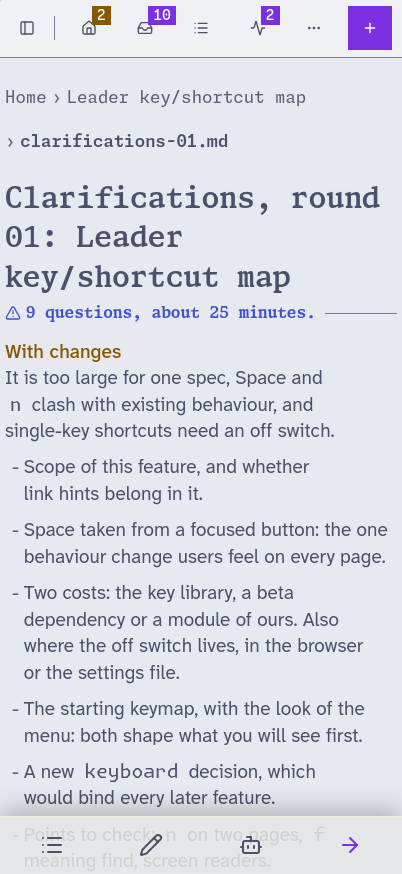
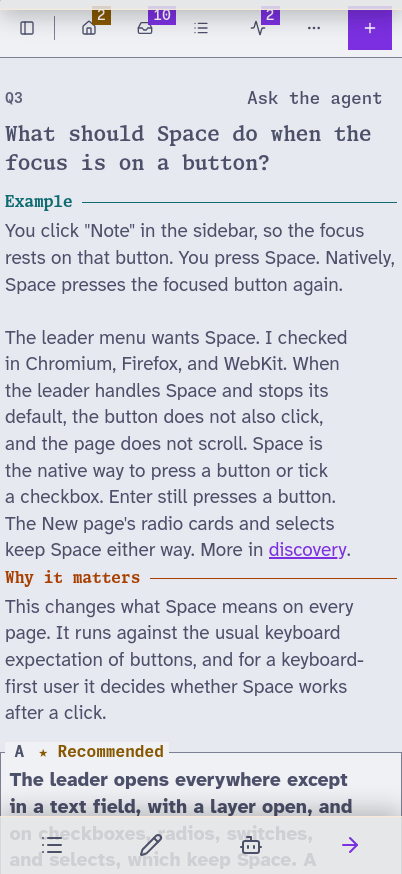
chore: better screenshots

diff --git a/packages/web/scripts/readme-screenshots.ts b/packages/web/scripts/readme-screenshots.ts
@@ -66,13 +66,19 @@ async function main() {
     await working;
     const each = shooter(shots, out, []);
     await each("home", ({ page }) => open(page, "/", "Overview"));
-    await each("questions", ({ page }) =>
-      open(
+    // Q3, a question in the middle of the round, rather than the round's context at its top.
+    await each("questions", async ({ page }) => {
+      await open(
         page,
         `/f/${REALISTIC_FOLDERS.asking}/clarifications-01.md`,
         "How much of the proposal should this feature build?",
-      ),
-    );
+      );
+      await page
+        .locator("section", { hasText: "What should Space do when the focus is on a button?" })
+        .last()
+        .evaluate((element) => element.scrollIntoView({ block: "start" }));
+      await settle(page);
+    });
     await each("spec", ({ page }) =>
       open(page, `/f/${REALISTIC_FOLDERS.reviewing}/spec.md`, "Open the leader menu with Space"),
     );

diff --git a/specs/PRIORITIES.md b/specs/PRIORITIES.md
@@ -18,12 +18,11 @@
 >
 > Goals once I'm happy with the core feature set
 
+- [Worker lifecycle](proposals/worker-lifecycle.md): runs survive server restarts, usage limits, and
+  their own background work, and go on to the next human gate without a "Continue"
 - Review the UI guidelines properly
 
 - Vim in text edit mode
-
-- [Worker lifecycle](proposals/worker-lifecycle.md): runs survive server restarts, usage limits, and
-  their own background work, and go on to the next human gate without a "Continue"
 
 - Basic git UI in the web ui (pull, see diffs, ...)
   - Pretty much web lazygit?
